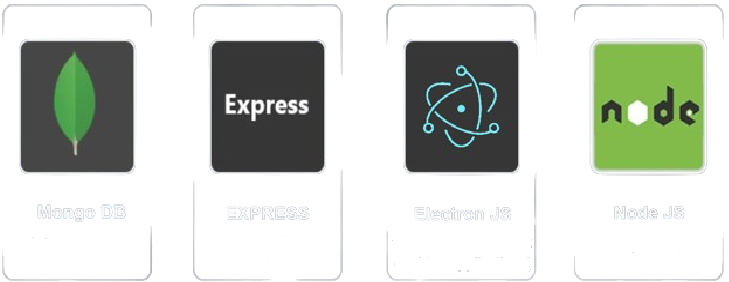
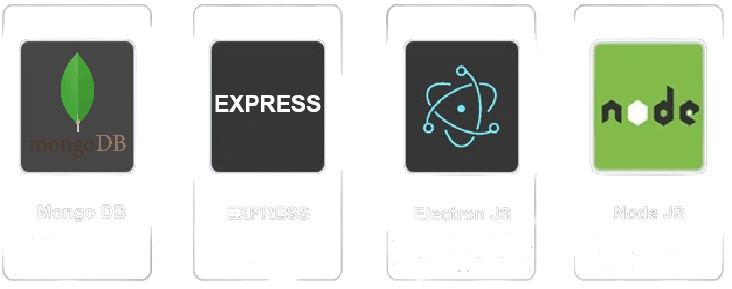
skills add

diff --git a/index.html b/index.html
@@ -9,9 +9,7 @@
     <link rel="stylesheet" href="./styles/carousel.css">
     <link rel="stylesheet" href="./styles/about.css">
     <link rel="stylesheet" href="./styles/portfolio.css">
-
 </head>
-
 <body>
     <header id="menu">
         <nav>
@@ -97,9 +95,9 @@
                             <div  class="carousel-item">
                                 <img class="img" src="../img/stack2.png" alt="">
                             </div>
-                            <!-- <div id="squad-3" class="carousel-item"></div>
-                            <div id="squad-4" class="carousel-item"></div>
-                            <div id="squad-5" class="carousel-item"></div> -->
+                            <div  class="carousel-item">
+                                <img class="img" src="../img/stack3.png" alt="">
+                            </div>
                         </div>
                         <button class="carousel-next"><img class="seta_direita" src="./img/seta_direita.png" alt="Próximo"></button>
                     </div>
